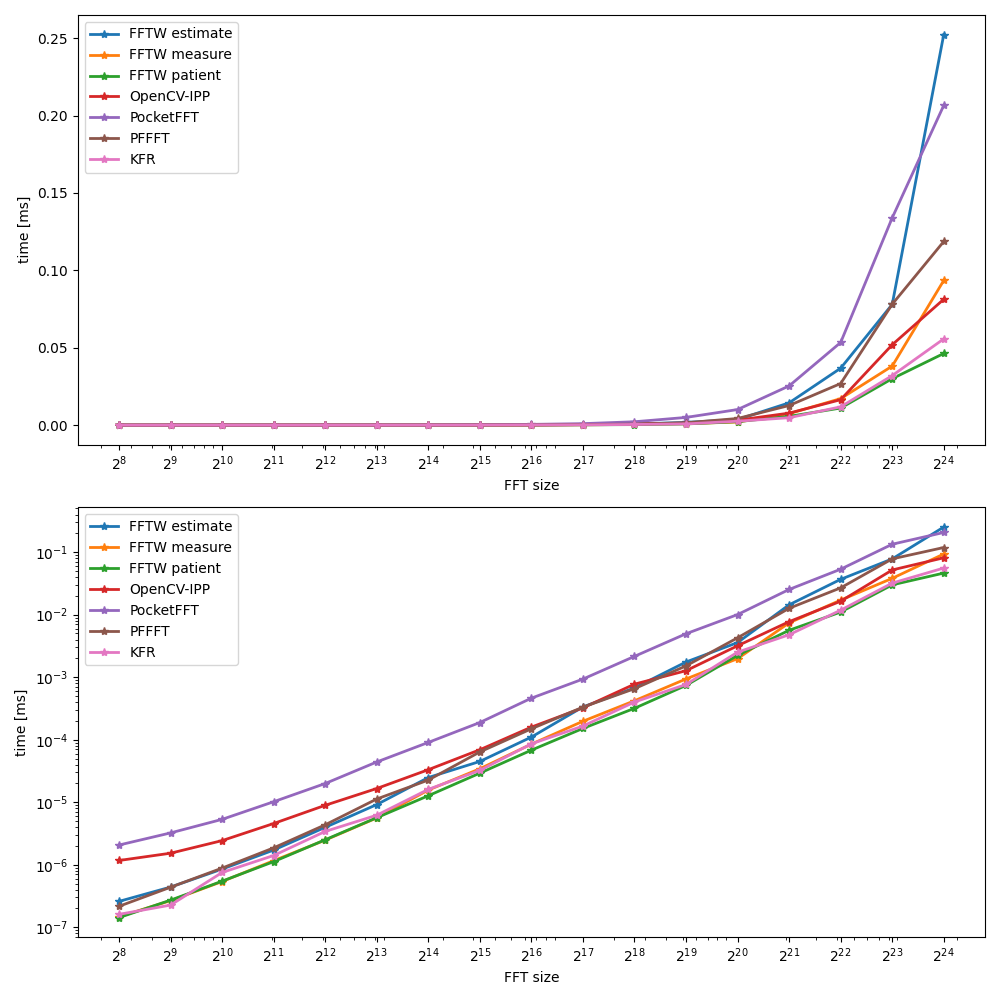
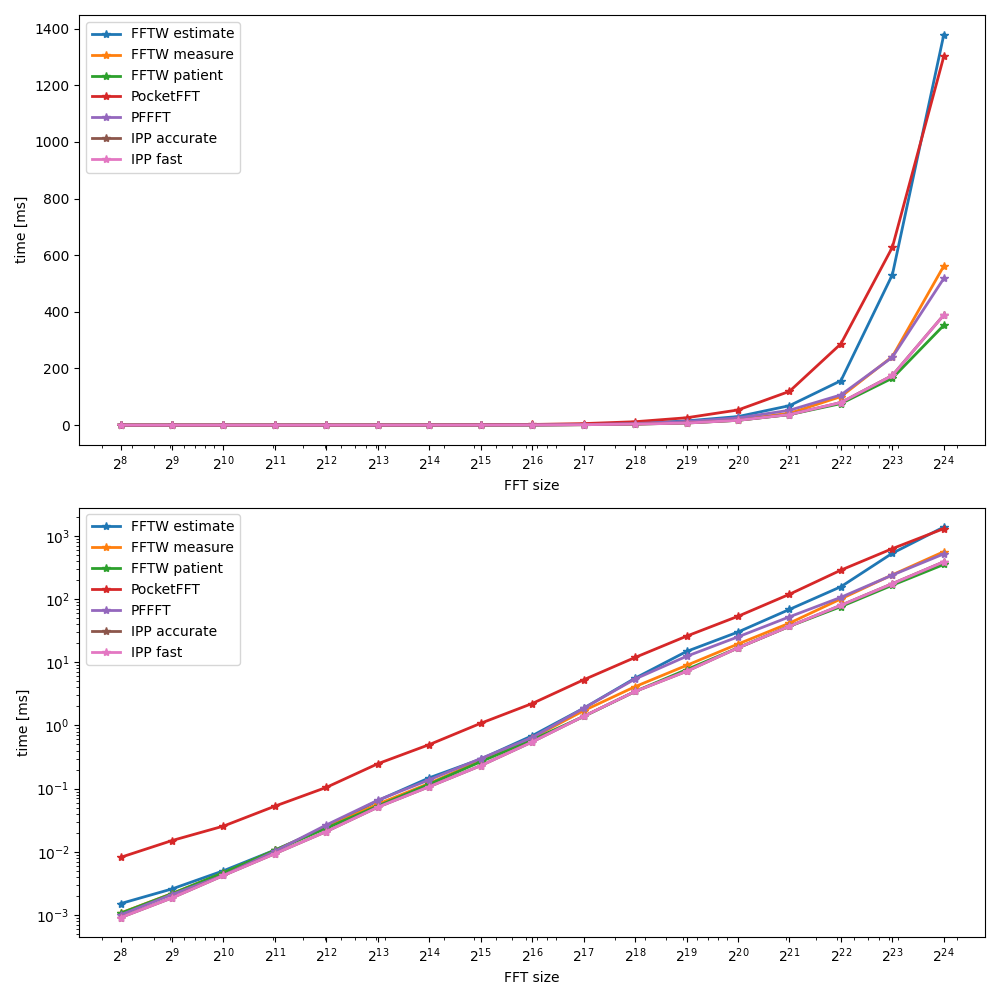
fftw threads

diff --git a/src/Benchmarks.hpp b/src/Benchmarks.hpp
@@ -10,8 +10,9 @@
 // Second, the inverse transform (complex to real) has the side-effect of overwriting its input array, by default. Neither of these inconveniences
 // should pose a serious problem for users, but it is important to be aware of them.
 
-static void FFTWBenchmark(benchmark::State& state, std::vector<f32> input, u32 flags)
+static void FFTWBenchmark(benchmark::State& state, std::vector<f32> input, u32 flags, int nthreads)
 {
+  fftwf_plan_with_nthreads(nthreads);
   f32* inputAligned = fftwf_alloc_real(input.size());
   fftwf_complex* outputAligned = fftwf_alloc_complex(input.size() / 2 + 1);
   fftwf_plan plan = fftwf_plan_dft_r2c_1d(input.size(), inputAligned, outputAligned, flags);
@@ -113,23 +114,25 @@ void RegisterBenchmarks()
   for (const auto exponent : exponents)
   {
     const auto timeunit = benchmark::kMillisecond;
+    const auto iterations = 1000;
     const auto size = 1 << exponent;
     const auto input = GenerateRandomVector(size);
 
-    benchmark::RegisterBenchmark(fmt::format("{:>8} | FFTW estimate", size).c_str(), FFTWBenchmark, input, FFTW_ESTIMATE)->Unit(timeunit);
-    benchmark::RegisterBenchmark(fmt::format("{:>8} | FFTW measure", size).c_str(), FFTWBenchmark, input, FFTW_MEASURE)->Unit(timeunit);
-    benchmark::RegisterBenchmark(fmt::format("{:>8} | FFTW patient", size).c_str(), FFTWBenchmark, input, FFTW_PATIENT)->Unit(timeunit);
-    benchmark::RegisterBenchmark(fmt::format("{:>8} | PocketFFT", size).c_str(), PocketFFTBenchmark, input)->Unit(timeunit);
-    benchmark::RegisterBenchmark(fmt::format("{:>8} | PFFFT", size).c_str(), PFFFTBenchmark, input)->Unit(timeunit);
+    benchmark::RegisterBenchmark(fmt::format("{:>8} | FFTW 1 thread", size).c_str(), FFTWBenchmark, input, FFTW_PATIENT, 1)->Unit(timeunit)->Iterations(iterations);
+    benchmark::RegisterBenchmark(fmt::format("{:>8} | FFTW 2 threads", size).c_str(), FFTWBenchmark, input, FFTW_PATIENT, 2)->Unit(timeunit)->Iterations(iterations);
+    benchmark::RegisterBenchmark(fmt::format("{:>8} | FFTW 3 threads", size).c_str(), FFTWBenchmark, input, FFTW_PATIENT, 3)->Unit(timeunit)->Iterations(iterations);
+    benchmark::RegisterBenchmark(fmt::format("{:>8} | FFTW 4 threads", size).c_str(), FFTWBenchmark, input, FFTW_PATIENT, 4)->Unit(timeunit)->Iterations(iterations);
+    benchmark::RegisterBenchmark(fmt::format("{:>8} | PocketFFT", size).c_str(), PocketFFTBenchmark, input)->Unit(timeunit)->Iterations(iterations);
+    benchmark::RegisterBenchmark(fmt::format("{:>8} | PFFFT", size).c_str(), PFFFTBenchmark, input)->Unit(timeunit)->Iterations(iterations);
 #ifdef ENABLE_KFR
-    benchmark::RegisterBenchmark(fmt::format("{:>8} | KFR", size).c_str(), KFRBenchmark, input)->Unit(timeunit);
+    benchmark::RegisterBenchmark(fmt::format("{:>8} | KFR", size).c_str(), KFRBenchmark, input)->Unit(timeunit)->Iterations(iterations);
 #endif
 #ifdef ENABLE_OPENCV
-    benchmark::RegisterBenchmark(fmt::format("{:>8} | OpenCV", size).c_str(), OpenCVBenchmark, input)->Unit(timeunit);
+    benchmark::RegisterBenchmark(fmt::format("{:>8} | OpenCV", size).c_str(), OpenCVBenchmark, input)->Unit(timeunit)->Iterations(iterations);
 #endif
 #ifdef ENABLE_IPP
-    benchmark::RegisterBenchmark(fmt::format("{:>8} | IPP accurate", size).c_str(), IPPBenchmark, input, ippAlgHintAccurate)->Unit(timeunit);
-    benchmark::RegisterBenchmark(fmt::format("{:>8} | IPP fast", size).c_str(), IPPBenchmark, input, ippAlgHintFast)->Unit(timeunit);
+    benchmark::RegisterBenchmark(fmt::format("{:>8} | IPP accurate", size).c_str(), IPPBenchmark, input, ippAlgHintAccurate)->Unit(timeunit)->Iterations(iterations);
+    benchmark::RegisterBenchmark(fmt::format("{:>8} | IPP fast", size).c_str(), IPPBenchmark, input, ippAlgHintFast)->Unit(timeunit)->Iterations(iterations);
 #endif
   }
 }

diff --git a/src/Tests.hpp b/src/Tests.hpp
@@ -106,7 +106,7 @@ std::vector<f32> IPPTest(std::vector<f32> input, IppHintAlgorithm hint)
 }
 #endif
 
-void PrintFFT(const std::vector<f32>& fft, const std::string& prefix = "", const std::string& suffix = "")
+void PrintFFT(const std::vector<f32>& fft, const std::string& prefix, const std::string& suffix)
 {
   fmt::print("{}\n[", prefix);
   for (usize i = 0; i < fft.size(); ++i)

diff --git a/src/Main.cpp b/src/Main.cpp
@@ -3,6 +3,7 @@
 
 static void Init()
 {
+  fftwf_init_threads();
 #ifdef ENABLE_IPP
   ippInit();
   ippSetNumThreads(1);
